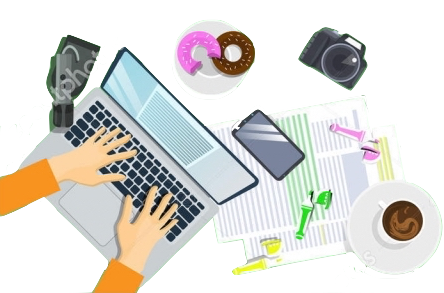
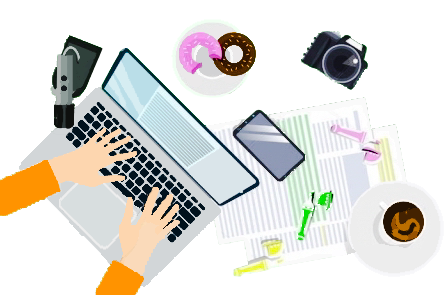
mudando imgs e alinhando links do youtube

diff --git a/index.html b/index.html
@@ -62,7 +62,6 @@
       </div>
     </div>
   </nav>
-
   <!-- .................... HOME .................... -->
   <div id="home" class="d-flex showcase">
     <div class="home__content container text-center align-self-center text-white">
@@ -79,8 +78,8 @@
         <button class="btn-flat"  data-toggle="modal" data-target="#myModal">Inscreva-se</button>
 
      
-        <div class="arrow bounce">
-          <a class="arrow-link fas fa-angle-down" href="#description"></a>
+        <div class="arrow bounce container">
+          <a class="fas fa-angle-down" href="#description"></a>
         </div>
       <!-- <img class="down-arrow-icon" src="assets/img/down-arrow.svg"> -->
 
@@ -124,7 +123,6 @@
     <canvas id="canvas"></canvas>
   </div>
 
-
   <!-- COMO FUNCIONA -->
   
   <div id="description" class="sections description">
@@ -163,7 +161,6 @@
     </div>
  
 
-
   <div id="works-done" class="works-done small-section">
     <h2 class="animate-right heading-2nd text-uppercase text-center">Eventos Realizados</h2>
 
@@ -171,48 +168,53 @@
 
       <div class="item card-events">
         <img class="card-img" src="assets/img/rafael-cortez.jpeg" alt="Card image">
-        <a class="card-icon text-shadow-light" target="_blank" href="https://www.youtube.com/channel/UCPi3uuGrh2mxnZJMfRhcjiw"><i class="icon youtube-icon fab fa-youtube"></i></a>
+        <div class="text-center card-icon">
+          <a class="text-shadow-light" target="_blank" href="https://www.youtube.com/channel/UCPi3uuGrh2mxnZJMfRhcjiw"><i class="icon youtube-icon fab fa-youtube"></i></a>
+        </div>
       </div>
 
-      <div class="item card card-events bg-black3">
-        <img class="card-img-top" src="assets/img/gustavo-mendes.png" alt="Card image">
-        <div class="card-body text-center">
-          <h4 class="card-title text-uppercase text-shadow">Gustavo Mendes</h4>
-          <a class="text-shadow-light" target="_blank" href="https://www.youtube.com/user/gustavommendes"><i class="icon youtube-icon fab fa-youtube"></i></a>
+      <div class="item card-events">
+        <img class="card-img" src="assets/img/gustavo-mendes.jpg" alt="Card image">
+        <div class="text-center card-icon">
+          <a class="text-shadow-light" target="_blank" href="https://www.youtube.com/channel/UCPi3uuGrh2mxnZJMfRhcjiw"><i class="text-center icon youtube-icon fab fa-youtube"></i></a>
         </div>
       </div>
 
       <div class="item card-events">
         <img class="card-img" src="assets/img/valerio-araujo.jpeg" alt="Card image">
-        <a class="card-icon text-shadow-light" target="_blank" href="https://www.youtube.com/channel/UCXByFEtDofOTgUCZwoR2Chg"><i class="icon youtube-icon fab fa-youtube"></i></a>
-      </div>
-
-      <div class="item card card-events">
-        <img class="card-img-top" src="assets/img/pagode-da-ofensa.png" alt="Card image">
-        <div class="card-body text-center bg-yellow text-dark">
-          <h4 class="card-title text-uppercase text-shadow">Pagode da Ofensa</h4>
-          <a class="text-shadow-light" target="_blank" href="https://www.youtube.com/user/gosambaoficial"><i class="icon youtube-icon fab fa-youtube"></i></a>
-        </div>
-      </div>
-      <div class="item card card-events">
-        <img class="card-img-top" src="assets/img/murilo-couto.jpg" alt="Card image">
-        <div class="card-body text-center bg-pink">
-          <a class="text-shadow-light" target="_blank" href="https://www.youtube.com/channel/UCDG56nDKCg302lY6Lr_GOWg"><i class="icon youtube-icon fab fa-youtube"></i></a>
-        </div>
-      </div>
-
-      <div class="item card card-events">
-        <img class="card-img-top" src="assets/img/renato-albani.jpeg" alt="Card image">
-        <div class="card-body text-center bg-black2">
-          <h4 class="card-title text-uppercase text-shadow">Renato Albani</h4>
-          <a class="text-shadow-light" target="_blank" href="https://www.youtube.com/user/renatoalbani"><i class="icon youtube-icon fab fa-youtube"></i></a>
+        <div class="text-center card-icon">
+          <a class="text-shadow-light" target="_blank" href="https://www.youtube.com/channel/UCPi3uuGrh2mxnZJMfRhcjiw"><i class="icon youtube-icon fab fa-youtube"></i></a>
         </div>
       </div>
 
       <div class="item card-events">
-        <img class="card-img" src="assets/img/thiago-ventura2.jpeg" alt="Card image">
-        <a class="card-icon text-shadow-light" target="_blank" href="https://www.youtube.com/user/thiagosouzapires"><i class="icon youtube-icon fab fa-youtube"></i></a>
+        <img class="card-img" src="assets/img/pagode-ofensa.jpg" alt="Card image">
+        <div class="text-center card-icon">
+          <a class="text-shadow-light" target="_blank" href="https://www.youtube.com/channel/UCPi3uuGrh2mxnZJMfRhcjiw"><i class="icon youtube-icon fab fa-youtube"></i></a>
+        </div>
       </div>
+
+      <div class="item card-events">
+        <img class="card-img" src="assets/img/murilo-couto.jpg" alt="Card image">
+        <div class="text-center card-icon">
+          <a class="text-shadow-light" target="_blank" href="https://www.youtube.com/channel/UCPi3uuGrh2mxnZJMfRhcjiw"><i class="icon youtube-icon fab fa-youtube"></i></a>
+        </div>
+      </div>
+
+      <div class="item card-events">
+        <img class="card-img" src="assets/img/renato-albani.jpg" alt="Card image">
+        <div class="text-center card-icon">
+          <a class="text-shadow-light" target="_blank" href="https://www.youtube.com/channel/UCPi3uuGrh2mxnZJMfRhcjiw"><i class="icon youtube-icon fab fa-youtube"></i></a>
+        </div>
+      </div>
+      
+      <div class="item card-events">
+        <img class="card-img" src="assets/img/thiago-ventura2.jpeg" alt="Card image">
+        <div class="text-center card-icon">
+          <a class="text-shadow-light" target="_blank" href="https://www.youtube.com/channel/UCPi3uuGrh2mxnZJMfRhcjiw"><i class="icon youtube-icon fab fa-youtube"></i></a>
+        </div>
+      </div>
+
     </div>
   </div>
 
@@ -266,17 +268,23 @@
 
         <div class="item card-events">
           <img class="card-img" src="assets/img/utc.jpeg" alt="Card image">
-          <a class="card-icon text-shadow-light" target="_blank" href="https://www.youtube.com/user/thiagosouzapires"><i class="icon youtube-icon fab fa-youtube"></i></a>
+          <div class="text-center card-icon">
+            <a class="text-shadow-light" target="_blank" href="https://www.youtube.com/channel/UCPi3uuGrh2mxnZJMfRhcjiw"><i class="icon youtube-icon fab fa-youtube"></i></a>
+          </div>
         </div>
 
         <div class="item card-events">
           <img class="card-img" src="assets/img/fabiano-cambota.jpeg" alt="Card image">
-          <a class="card-icon text-shadow-light" target="_blank" href="https://www.youtube.com/user/thiagosouzapires"><i class="icon youtube-icon fab fa-youtube"></i></a>
+          <div class="text-center card-icon">
+            <a class="text-shadow-light" target="_blank" href="https://www.youtube.com/channel/UCPi3uuGrh2mxnZJMfRhcjiw"><i class="icon youtube-icon fab fa-youtube"></i></a>
+          </div>
         </div>
 
         <div class="item card-events">
           <img class="card-img" src="assets/img/thiago-ventura2.jpeg" alt="Card image">
-          <a class="card-icon text-shadow-light" target="_blank" href="https://www.youtube.com/user/thiagosouzapires"><i class="icon youtube-icon fab fa-youtube"></i></a>
+          <div class="text-center card-icon">
+            <a class="text-shadow-light" target="_blank" href="https://www.youtube.com/channel/UCPi3uuGrh2mxnZJMfRhcjiw"><i class="icon youtube-icon fab fa-youtube"></i></a>
+          </div>
         </div>
 
       </div>

diff --git a/assets/js/script.js b/assets/js/script.js
@@ -96,7 +96,7 @@ debounce = function(func, wait, immediate){
 (function(){ // evitar conflito tornando variaveis locais, apenas para essa funcao 
   var $target = $('.animate-top, .animate-right'), //seleciona as classes que quer animar
       animationClass = 'animate-start',
-      offset = $(window).height() * 5/6; // nunca deixar mais do que 3/4 da janela em branco
+      offset = $(window).height() * 4/5; // nunca deixar mais do que 3/4 da janela em branco
   function animateScroll(){
     var distDocumentTop = $(document).scrollTop(); 
     $target.each(function(){

diff --git a/assets/css/style.css b/assets/css/style.css
@@ -623,7 +623,7 @@ canvas {
 .card-icon{
 	position: absolute;
 	bottom: 1.5%;
-	left: 30%;
+	width: 100%;
 }
 .youtube-icon{
 	display: inline-block;
@@ -638,9 +638,10 @@ canvas {
     color: white;
 }
 .arrow{
+	padding: 0;
 	text-align: center;
-	  /*margin: 8% 0;*/
-    width: 30px;
+    /*width: 100%;*/
+    width: 40px;
     top: 90%;
     margin: 0 auto; 
     position: absolute;
